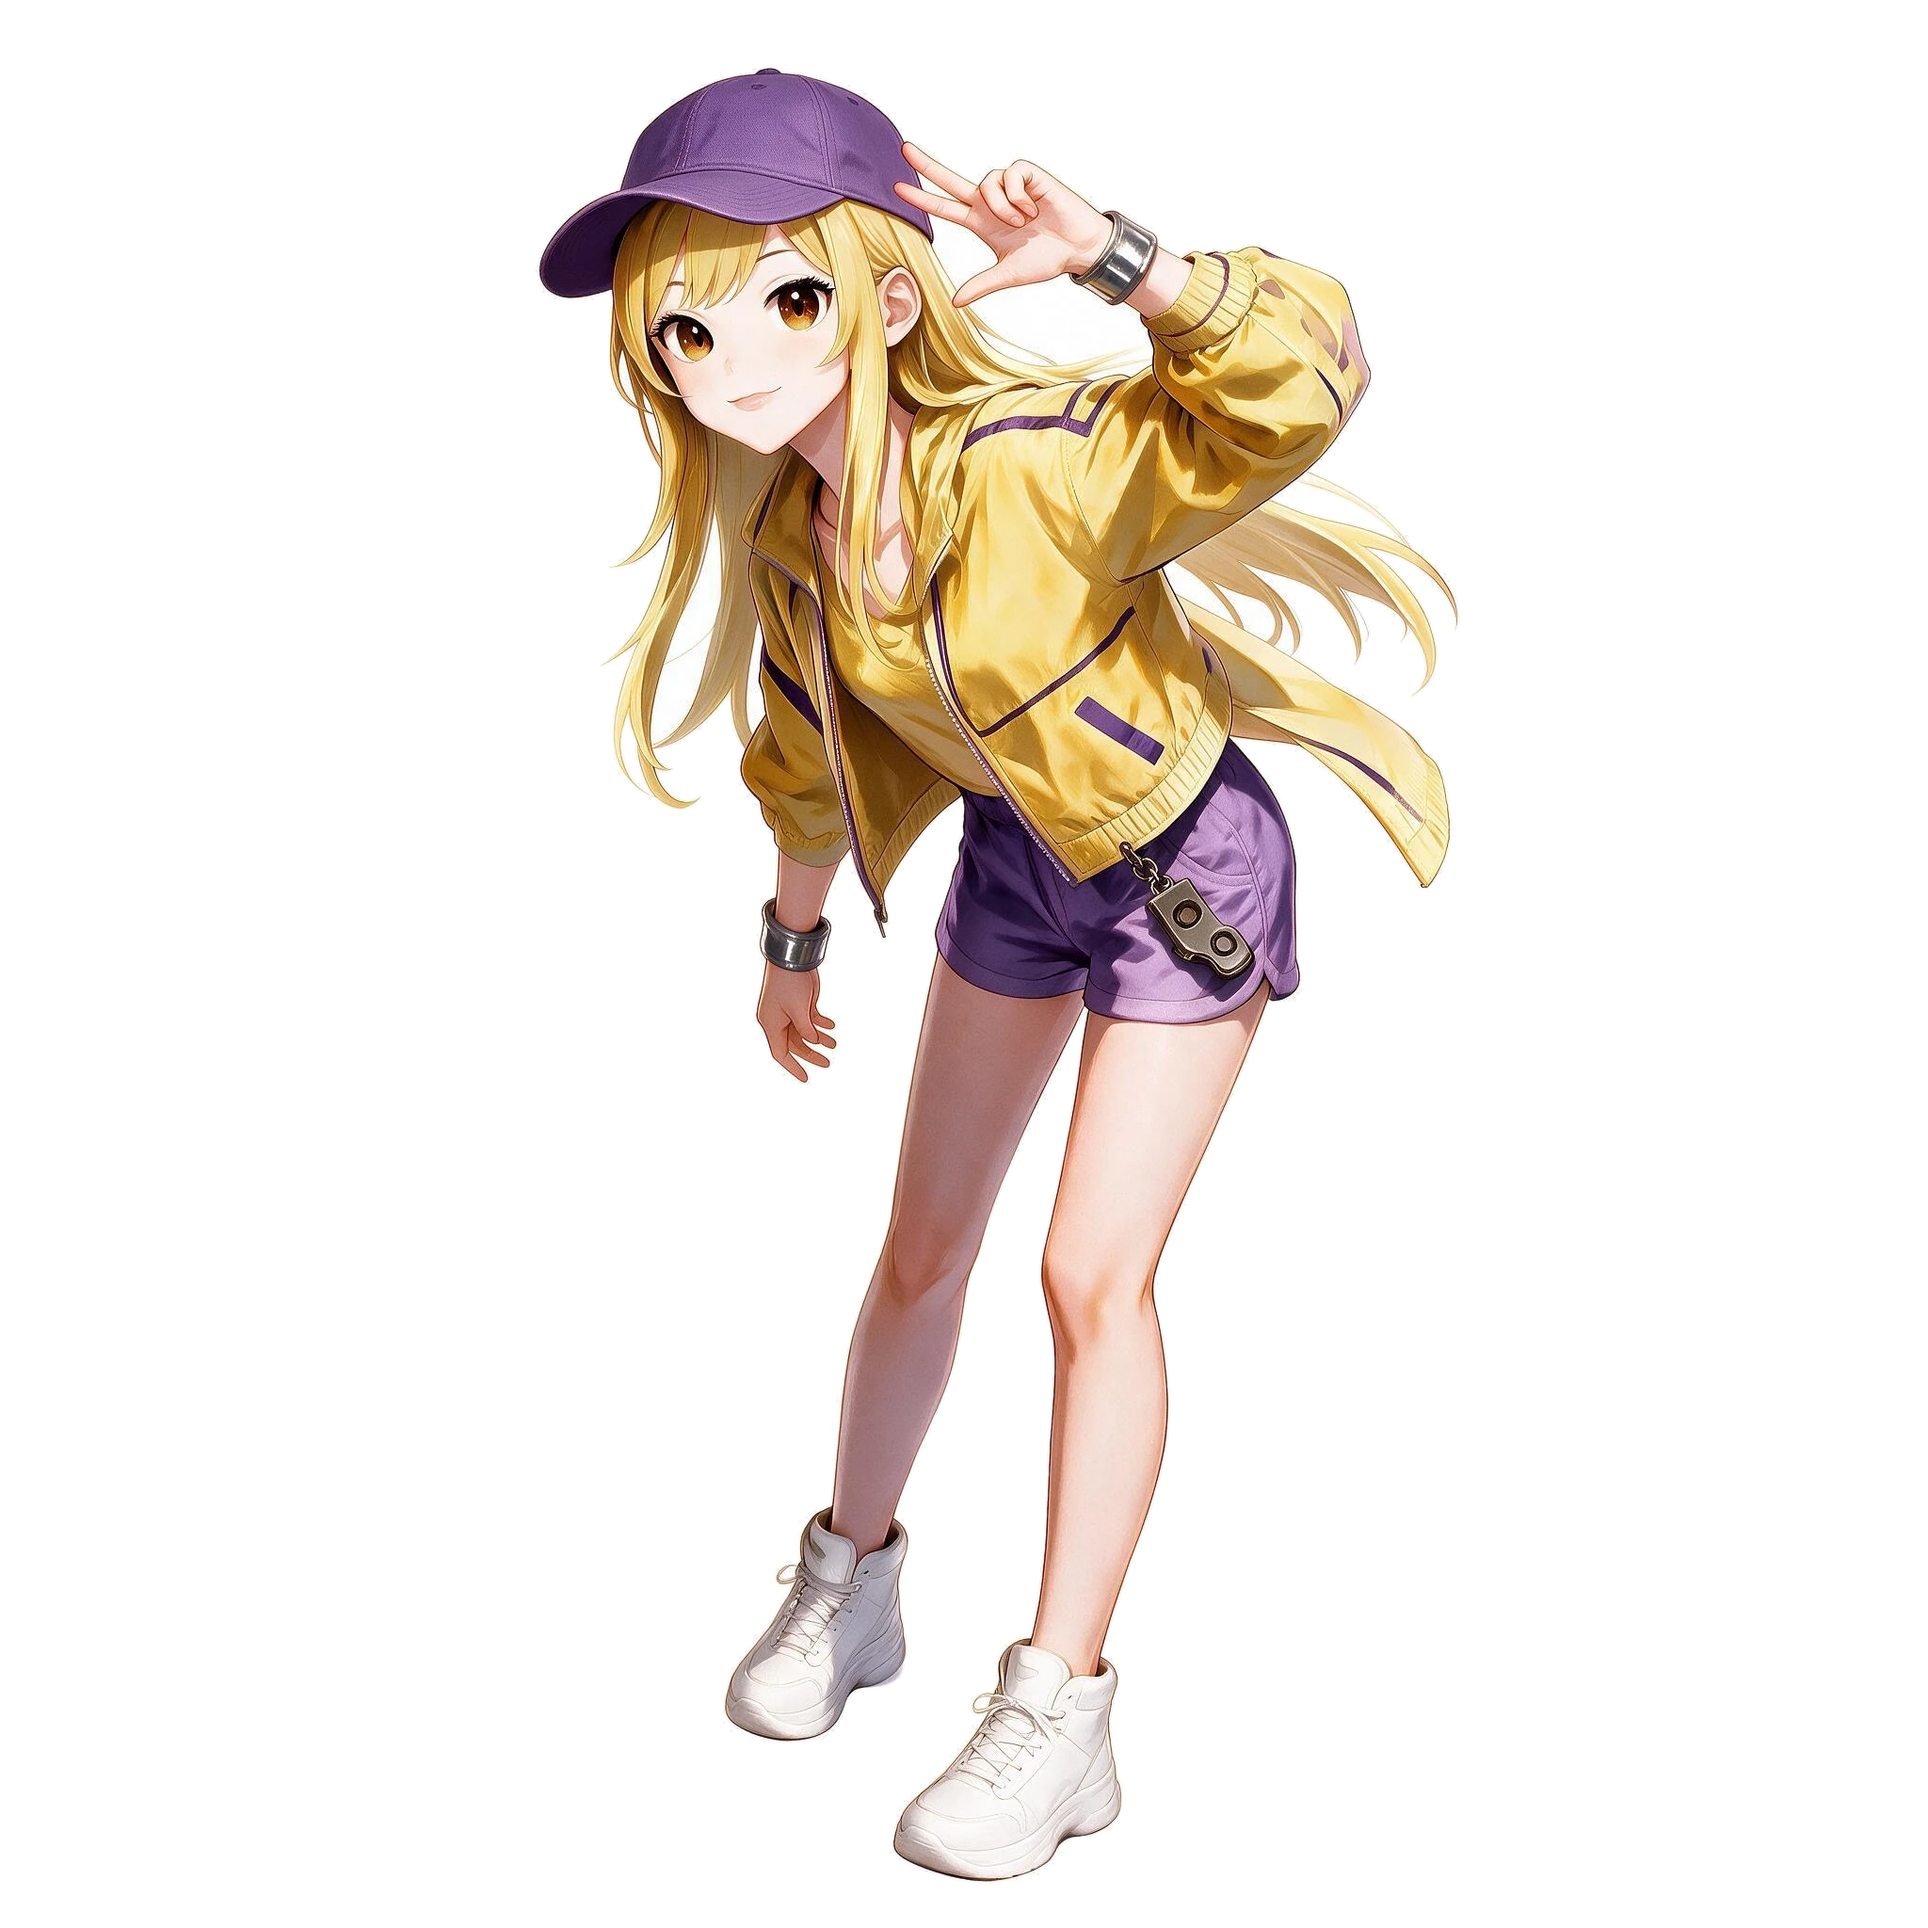
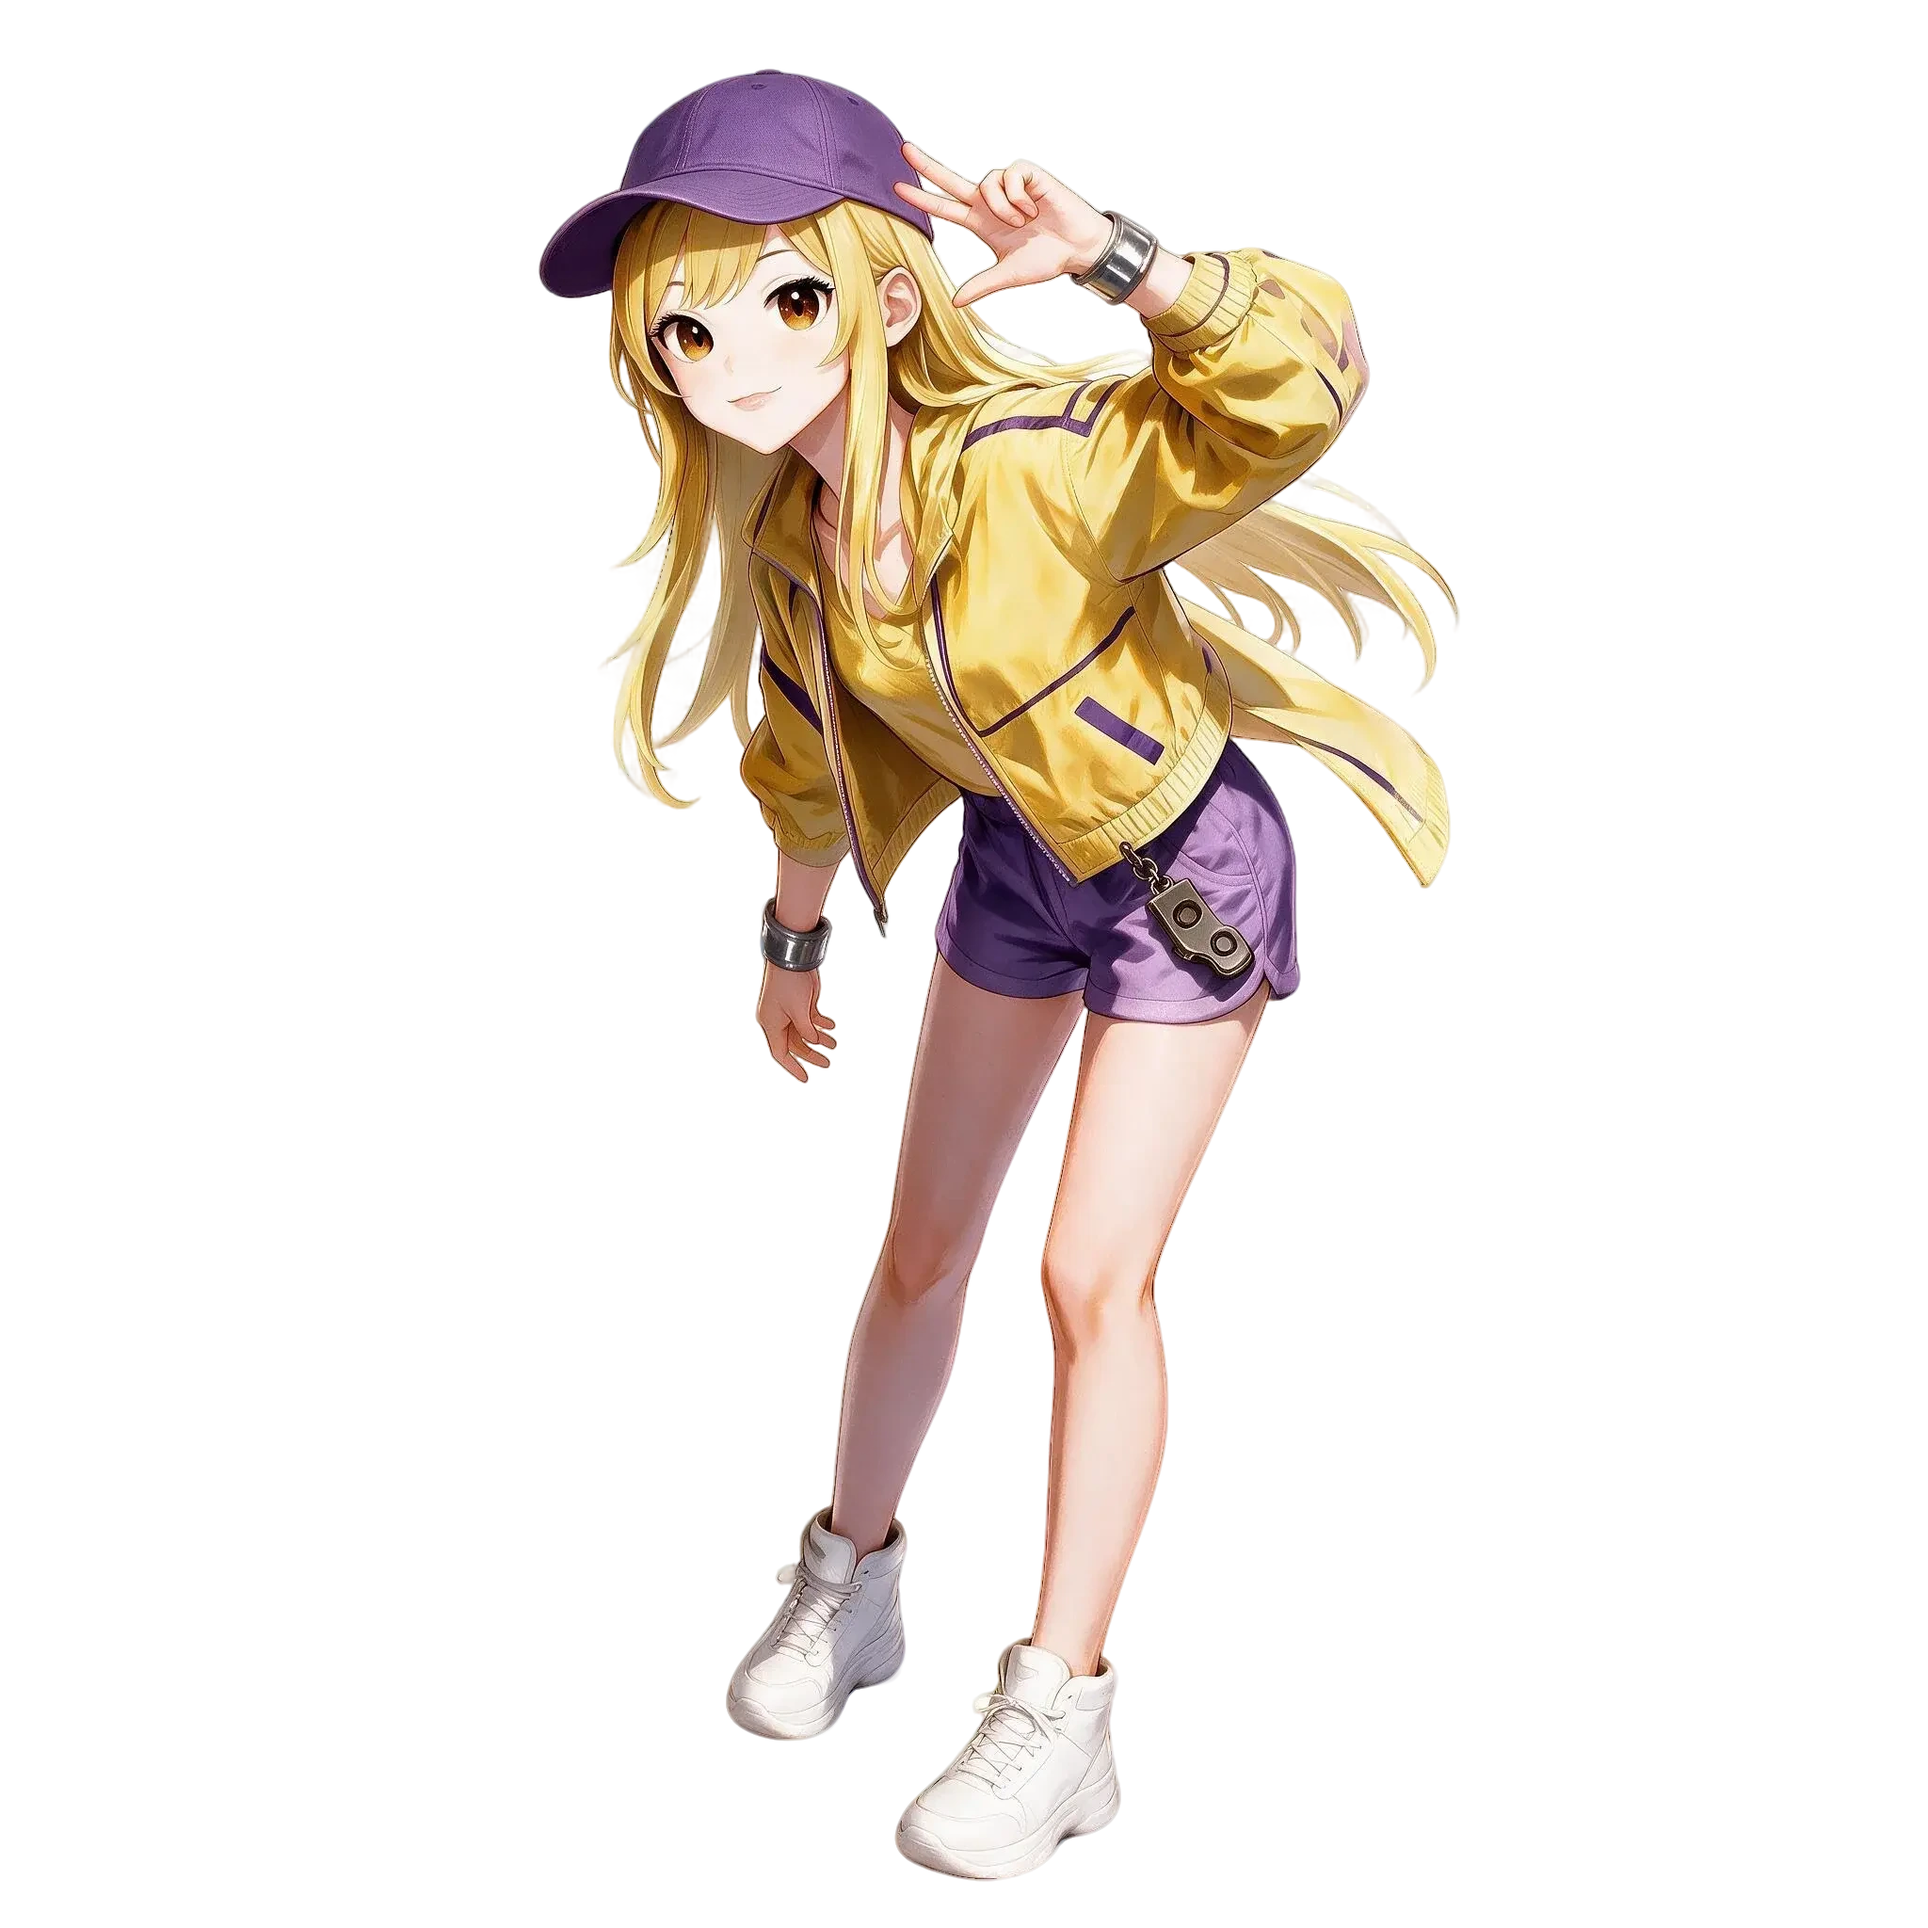
Use user's cutout artwork and enlarge hero mascot

Changed region(s): [[0.3438, 0.2812, 0.375, 0.3125], [0.3125, 0.375, 0.3438, 0.4062]]

diff --git a/styles.css b/styles.css
@@ -148,7 +148,7 @@ nav.links a.active { color: var(--text); }
 
 .hero-inner {
   display: grid;
-  grid-template-columns: 1.12fr .88fr;
+  grid-template-columns: 1fr 1fr;
   gap: 56px;
   align-items: center;
   max-width: 1120px;
@@ -415,7 +415,7 @@ h2.title {
 
 .oc-wrap {
   position: relative;
-  max-width: 420px;
+  max-width: 540px;
   justify-self: center;
 }
 
@@ -797,7 +797,7 @@ footer {
   .hero-text { text-align: center; }
   .hero-text .hero-actions,
   .hero-text .stats { justify-content: center; }
-  .oc-wrap { max-width: 320px; margin: 0 auto; }
+  .oc-wrap { max-width: 400px; margin: 0 auto; }
 }
 
 @media (prefers-reduced-motion: reduce) {
